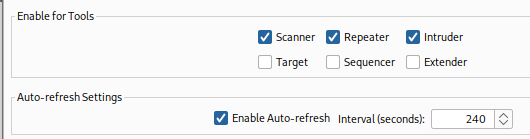
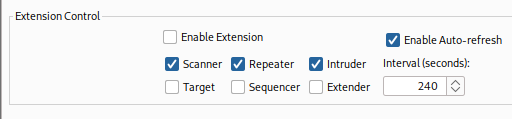
updated readme and extension control

diff --git a/swapper.py b/swapper.py
@@ -8,7 +8,6 @@ from java.lang import Runnable
 import re
 import threading
 import time
-import Queue
 
 class BurpExtender(IBurpExtender, IHttpListener, ITab, IContextMenuFactory, ActionListener):
     def registerExtenderCallbacks(self, callbacks):
@@ -117,22 +116,17 @@ JSYTJzaX2Ds2ClCwTyz5P4Gjx6CoKwBIdsEspog=
         self.instructions_area.setEditable(False)  
         self.instructions_area.setText("""SWAPPER
                                  
-An extension for easy match/replace of tokens/CSRF/anything using regex. Handles XML and JSON. By default, SWAPPER sends a request to obtain the token/value every 4 minutes. You can change the time to request a new token. Disabling auto-refresh will request a token for each Request(needed every now and again...). A new value will be requested for each interval. There is not logout logic implemented in the tool. Can pull multiple patterns out of Response and set multiple patterns to replace.
+An extension for easy match/replace of tokens/CSRF/anything using regex. Handles XML and JSON. By default, SWAPPER sends a request to obtain the token/value every 4 minutes. You can change the time to request a new token. Disabling auto-refresh will request a token for each request(needed every now and again...). A new value will be requested for each interval. Can pull multiple patterns out of response and set multiple patterns to replace.
         
 HOW TO USE:
 
 1. Right-click on any request in Target/History
 2. Select "Send to Swapper" to populate fields
-3. Modify the request details to create your token request
-4. Set up regex patterns for token extraction/replacement
-5. Test your configuration
-6. Enable tools and auto-refresh as needed
+3. Set up regex patterns for token extraction/replacement
+4. Test your configuration
+5. Enable tools and auto-refresh as needed
 
-Remember to save configuration to update changes.
-
-When using Repeater, the changes will not show. Check Logger/Logger++ to verify replacement. 
-
-Test Token Request will send Request and display in status the regex match. For the Request, go to Request in Proxy history and under extensions, select `Test Request Regex`. Match will show in Status field.
+To check regex matches, Test Token Request will send request and display regex hit/miss in status box. For the request, go to request you want to check in Proxy history/History/Target, right click and under extensions, select `Test Request Regex`. Resulting hit/miss will show in status box.
 """)
         self.instructions_area.setLineWrap(True)
         self.instructions_area.setWrapStyleWord(True)
@@ -202,6 +196,7 @@ Or find the request to send in your history and send to SWAPPER
         button_regex_panel.add(self.add_regex_button)
         regex_section.add(button_regex_panel, BorderLayout.SOUTH)
         self.createRegexPair(0)
+
         control_section = JPanel(BorderLayout())
         control_section.setBorder(BorderFactory.createTitledBorder("Extension Control"))
         control_panel = JPanel(GridBagLayout())
@@ -212,72 +207,46 @@ Or find the request to send in your history and send to SWAPPER
         self.enable_extension_checkbox = JCheckBox("Enable Extension", self.extension_enabled)
         self.enable_extension_checkbox.addActionListener(self)
         control_panel.add(self.enable_extension_checkbox, control_gbc)
-        control_gbc.gridx = 1
-        enable_help = JLabel("Default grabs a token for each request (auto-refresh can override)")
-        control_panel.add(enable_help, control_gbc)
-        control_section.add(control_panel, BorderLayout.CENTER)
-        tools_section = JPanel(BorderLayout())
-        tools_section.setBorder(BorderFactory.createTitledBorder("Enable for Tools"))
-        tools_panel = JPanel(GridBagLayout())
+        control_gbc.gridy = 1
+        tools_sub_panel = JPanel(GridBagLayout())
         tools_gbc = GridBagConstraints()
-        tools_gbc.insets = Insets(3, 3, 3, 3)
+        tools_gbc.insets = Insets(2, 2, 2, 2)
         tools_gbc.anchor = GridBagConstraints.WEST
         tools_gbc.gridx = 0; tools_gbc.gridy = 0
         self.scanner_checkbox = JCheckBox("Scanner", self.enabled_tools['scanner'])
-        tools_panel.add(self.scanner_checkbox, tools_gbc)
+        tools_sub_panel.add(self.scanner_checkbox, tools_gbc)
         tools_gbc.gridx = 1
         self.repeater_checkbox = JCheckBox("Repeater", self.enabled_tools['repeater'])
-        tools_panel.add(self.repeater_checkbox, tools_gbc)
+        tools_sub_panel.add(self.repeater_checkbox, tools_gbc)
         tools_gbc.gridx = 2
         self.intruder_checkbox = JCheckBox("Intruder", self.enabled_tools['intruder'])
-        tools_panel.add(self.intruder_checkbox, tools_gbc)
+        tools_sub_panel.add(self.intruder_checkbox, tools_gbc)
         tools_gbc.gridx = 0; tools_gbc.gridy = 1
         self.target_checkbox = JCheckBox("Target", self.enabled_tools['target'])
-        tools_panel.add(self.target_checkbox, tools_gbc)
+        tools_sub_panel.add(self.target_checkbox, tools_gbc)
         tools_gbc.gridx = 1
         self.sequencer_checkbox = JCheckBox("Sequencer", self.enabled_tools['sequencer'])
-        tools_panel.add(self.sequencer_checkbox, tools_gbc)
+        tools_sub_panel.add(self.sequencer_checkbox, tools_gbc)
         tools_gbc.gridx = 2
         self.extender_checkbox = JCheckBox("Extender", self.enabled_tools['extender'])
-        tools_panel.add(self.extender_checkbox, tools_gbc)
-        tools_section.add(tools_panel, BorderLayout.CENTER)
-        refresh_section = JPanel(BorderLayout())
-        refresh_section.setBorder(BorderFactory.createTitledBorder("Auto-refresh Settings"))
-        refresh_panel = JPanel(GridBagLayout())
+        tools_sub_panel.add(self.extender_checkbox, tools_gbc)
+        control_panel.add(tools_sub_panel, control_gbc)
+        control_gbc.gridx = 1; control_gbc.gridy = 0; control_gbc.gridheight = 2
+        refresh_sub_panel = JPanel(GridBagLayout())
         refresh_gbc = GridBagConstraints()
         refresh_gbc.insets = Insets(3, 3, 3, 3)
         refresh_gbc.anchor = GridBagConstraints.WEST
         refresh_gbc.gridx = 0; refresh_gbc.gridy = 0
         self.auto_refresh_checkbox = JCheckBox("Enable Auto-refresh", self.auto_refresh_enabled)
         self.auto_refresh_checkbox.addActionListener(self)
-        refresh_panel.add(self.auto_refresh_checkbox, refresh_gbc)
-        refresh_gbc.gridx = 1
-        refresh_panel.add(JLabel("Interval (seconds):"), refresh_gbc)
-        refresh_gbc.gridx = 2
+        refresh_sub_panel.add(self.auto_refresh_checkbox, refresh_gbc)
+        refresh_gbc.gridy = 1
+        refresh_sub_panel.add(JLabel("Interval (seconds):"), refresh_gbc)
+        refresh_gbc.gridy = 2
         self.interval_spinner = JSpinner(SpinnerNumberModel(self.refresh_interval, 1, 3600, 1))
-        refresh_panel.add(self.interval_spinner, refresh_gbc)
-        refresh_section.add(refresh_panel, BorderLayout.CENTER)
-        sent_section = JPanel(BorderLayout())
-        sent_section.setBorder(BorderFactory.createTitledBorder("Sent Requests Queue"))
-        sent_panel = JPanel(GridBagLayout())
-        sent_gbc = GridBagConstraints()
-        sent_gbc.insets = Insets(3, 3, 3, 3)
-        sent_gbc.anchor = GridBagConstraints.WEST
-        sent_gbc.gridx = 0; sent_gbc.gridy = 0; sent_gbc.fill = GridBagConstraints.BOTH; sent_gbc.weightx = 1.0; sent_gbc.weighty = 1.0
-        self.sent_requests_area = JTextArea(6, 50)
-        self.sent_requests_area.setEditable(False)
-        sent_requests_scroll = JScrollPane(self.sent_requests_area)
-        sent_panel.add(sent_requests_scroll, sent_gbc)
-        sent_gbc.gridy = 1; sent_gbc.fill = GridBagConstraints.NONE; sent_gbc.weighty = 0
-        sent_button_panel = JPanel()
-        self.process_queue_button = JButton("Process Queue")
-        self.process_queue_button.addActionListener(self)
-        self.clear_queue_button = JButton("Clear Queue")
-        self.clear_queue_button.addActionListener(self)
-        sent_button_panel.add(self.process_queue_button)
-        sent_button_panel.add(self.clear_queue_button)
-        sent_panel.add(sent_button_panel, sent_gbc)
-        sent_section.add(sent_panel, BorderLayout.CENTER)
+        refresh_sub_panel.add(self.interval_spinner, refresh_gbc)
+        control_panel.add(refresh_sub_panel, control_gbc)
+        control_section.add(control_panel, BorderLayout.CENTER)
         button_panel = JPanel()
         self.test_button = JButton("Test Token Request")
         self.test_button.addActionListener(self)
@@ -295,13 +264,9 @@ Or find the request to send in your history and send to SWAPPER
         content_panel.add(control_section, gbc)
         gbc.gridy = 2
         content_panel.add(regex_section, gbc)
-        gbc.gridy = 3
-        content_panel.add(tools_section, gbc)
-        gbc.gridy = 4
-        content_panel.add(refresh_section, gbc)
-        gbc.gridy = 5; gbc.fill = GridBagConstraints.NONE
+        gbc.gridy = 3; gbc.fill = GridBagConstraints.NONE
         content_panel.add(button_panel, gbc)
-        gbc.gridy = 6; gbc.fill = GridBagConstraints.BOTH; gbc.weighty = 1.0
+        gbc.gridy = 4; gbc.fill = GridBagConstraints.BOTH; gbc.weighty = 1.0
         content_panel.add(status_scroll, gbc)
         scroll_pane = JScrollPane(content_panel)
         self.panel.add(scroll_pane, BorderLayout.CENTER)
@@ -479,22 +444,22 @@ Or find the request to send in your history and send to SWAPPER
     def _tokenWorker(self):
         while not getattr(self, 'shutdown_flag', True):
             try:
-                need_refresh = (not hasattr(self, 'current_tokens') or 
-                              not self.current_tokens or 
-                              (not self.auto_refresh_enabled and 
-                               time.time() - getattr(self, 'token_last_updated', 0) > 30))
-                if need_refresh and getattr(self, 'extension_enabled', False):
-                    success = self._getNewTokenSync()
-                    if success:
-                        print("Background token refresh completed")
-                for i in range(50): 
+                if getattr(self, 'auto_refresh_enabled', False):
+                    need_refresh = (not hasattr(self, 'current_tokens') or 
+                                not self.current_tokens or 
+                                time.time() - getattr(self, 'token_last_updated', 0) > self.refresh_interval)
+                    if need_refresh and getattr(self, 'extension_enabled', False):
+                        success = self._getNewTokenSync()
+                        if success:
+                            print("Token refresh completed")
+                for i in range(50):  
                     if getattr(self, 'shutdown_flag', True):
                         break
                     time.sleep(0.1)
             except Exception as e:
-                print("Token worker error: %s" % str(e))
+                print("Token error: %s" % str(e))
                 time.sleep(1)
-        print("Token worker thread stopped")
+        print("Token thread stopped")
 
     def _getNewTokenSync(self):
         try:
@@ -793,7 +758,7 @@ class TokenRefreshTask(Runnable):
         self.extender = extender
     def run(self):
         try:
-            token = self.extender.getNewToken()
+            token = self.extender._getNewTokenSync()
             if token:
                 self.extender.addStatus("Got new token")
             else:

diff --git a/README.md b/README.md
@@ -6,6 +6,11 @@ By default, SWAPPER sends a request to obtain the token/value every 4 minutes. Y
 
 SWAPPER supports pulling multiple patterns out of response and setting multiple patterns to replace.  
 
+## Install  
+Burp Suite needs the Python environment configured. Add the reference to the Jython JAR file in extension settings.  
+
+From the Extensions setting, in the Installed tab, select `add` and choose Python as the extension type. Then load swapper.py. That is all there is. 
+
 ## HOW TO USE:  
 Example from OWASP JuiceShop at `https://juice-shop.herokuapp.com` to get the Bearer token from endpoint, match the request header, and what to update the match with.  
 
@@ -41,9 +46,11 @@ To test the request pattern, in History/Target/Repeater, right click the request
 ![Request Regex Match](/images/status_request_match.png)  
 
 ### Enable tools and auto-refresh as needed  
-- **Enable for Tools** Choose what tools you want SWAPPER to swap out tokens.  
+- **Enable Extension** Start and stop SWAPPER
 
-- **Auto-refresh Settings** Change time to request new token. Disabling `Enabling Auto-refresh` will send a new token request for each request.  
+- **Tools** Choose what tools you want SWAPPER to swap out tokens for.  
+
+- **Enable Auto-refresh** Change time to request new token. Disabling `Enabling Auto-refresh` will send a new token request for each request.  
 
 ![Tools](/images/tools.png)  
 
@@ -60,7 +67,4 @@ Verify the token that was issued in the SWAPPER request.
 
 Ensure the token issued was used in the Intruder attack.  
 
-![New Token](/images/new_token.png)  
-
-### Install  
-Need Jython. Under Burp extensions, select add and choose Python as the extension type. Then load swapper.py. That is all there is.    
+![New Token](/images/new_token.png)    
